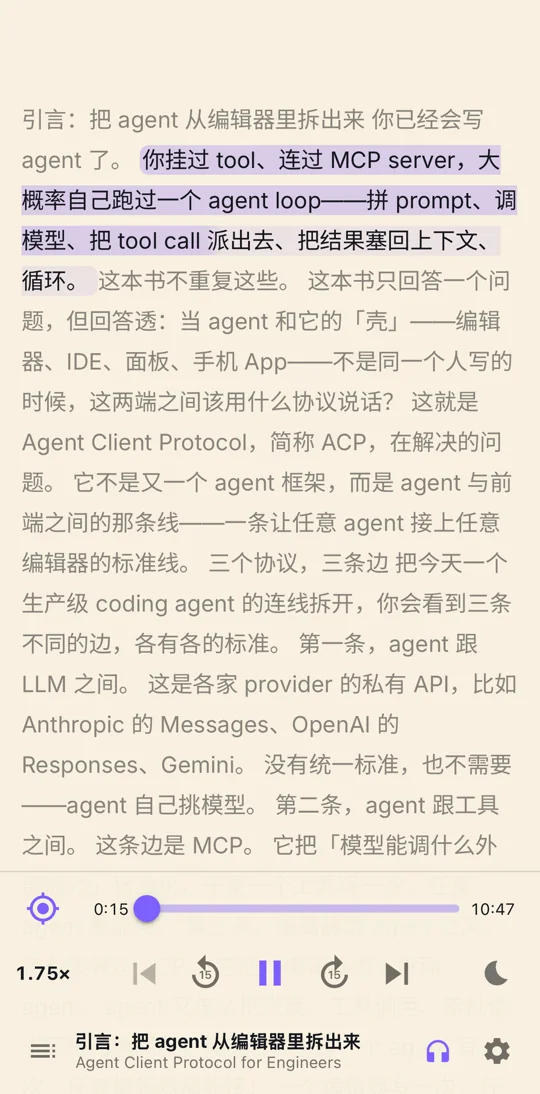
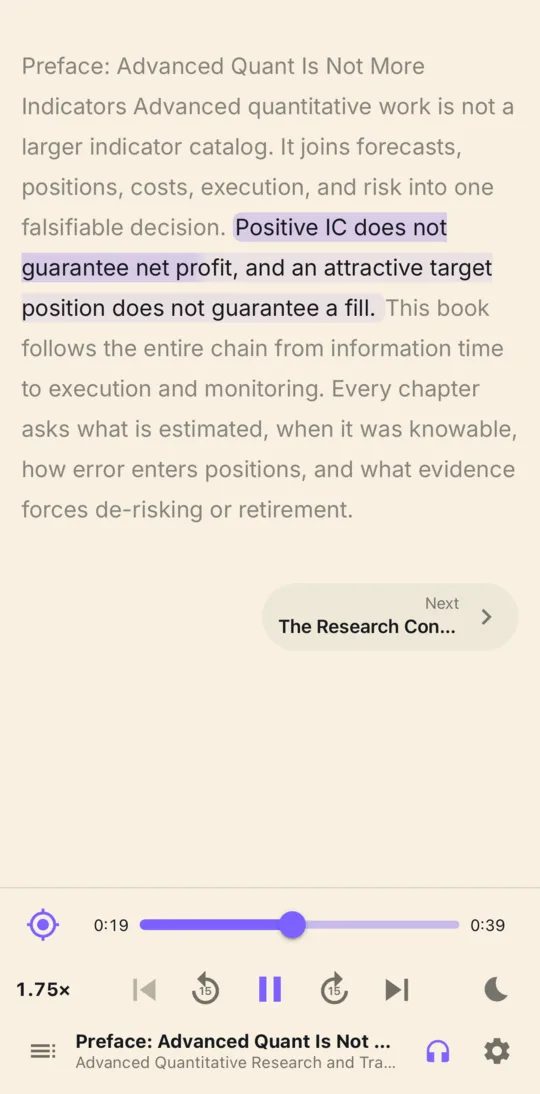
docs: focus product tour on English screenshots

diff --git a/README.md b/README.md
@@ -45,14 +45,6 @@ audio.
 
 <p align="center"><sub>A dense, searchable bookshelf with collections, language editions, artwork, and independent reading and listening progress.</sub></p>
 
-### iPad reading
-
-<p align="center">
-  <img src="docs/assets/screenshots/ipad-reader.webp" alt="LiveView on iPad with a persistent chapter navigator beside the reading surface" width="72%">
-</p>
-
-<p align="center"><sub>iPad gets a purpose-built split navigator and reading surface instead of a stretched phone layout.</sub></p>
-
 ### Mobile, without simplifying the content
 
 <table>
@@ -75,7 +67,7 @@ audio.
   </tr>
 </table>
 
-<p align="center"><sub>Captured from the current light-theme desktop build and native iPhone/iPad Simulator app.</sub></p>
+<p align="center"><sub>Captured from the current light-theme desktop build and native iPhone Simulator app.</sub></p>
 
 > [!NOTE]
 > LiveView is pre-1.0 and developed from the default branch. The content model
